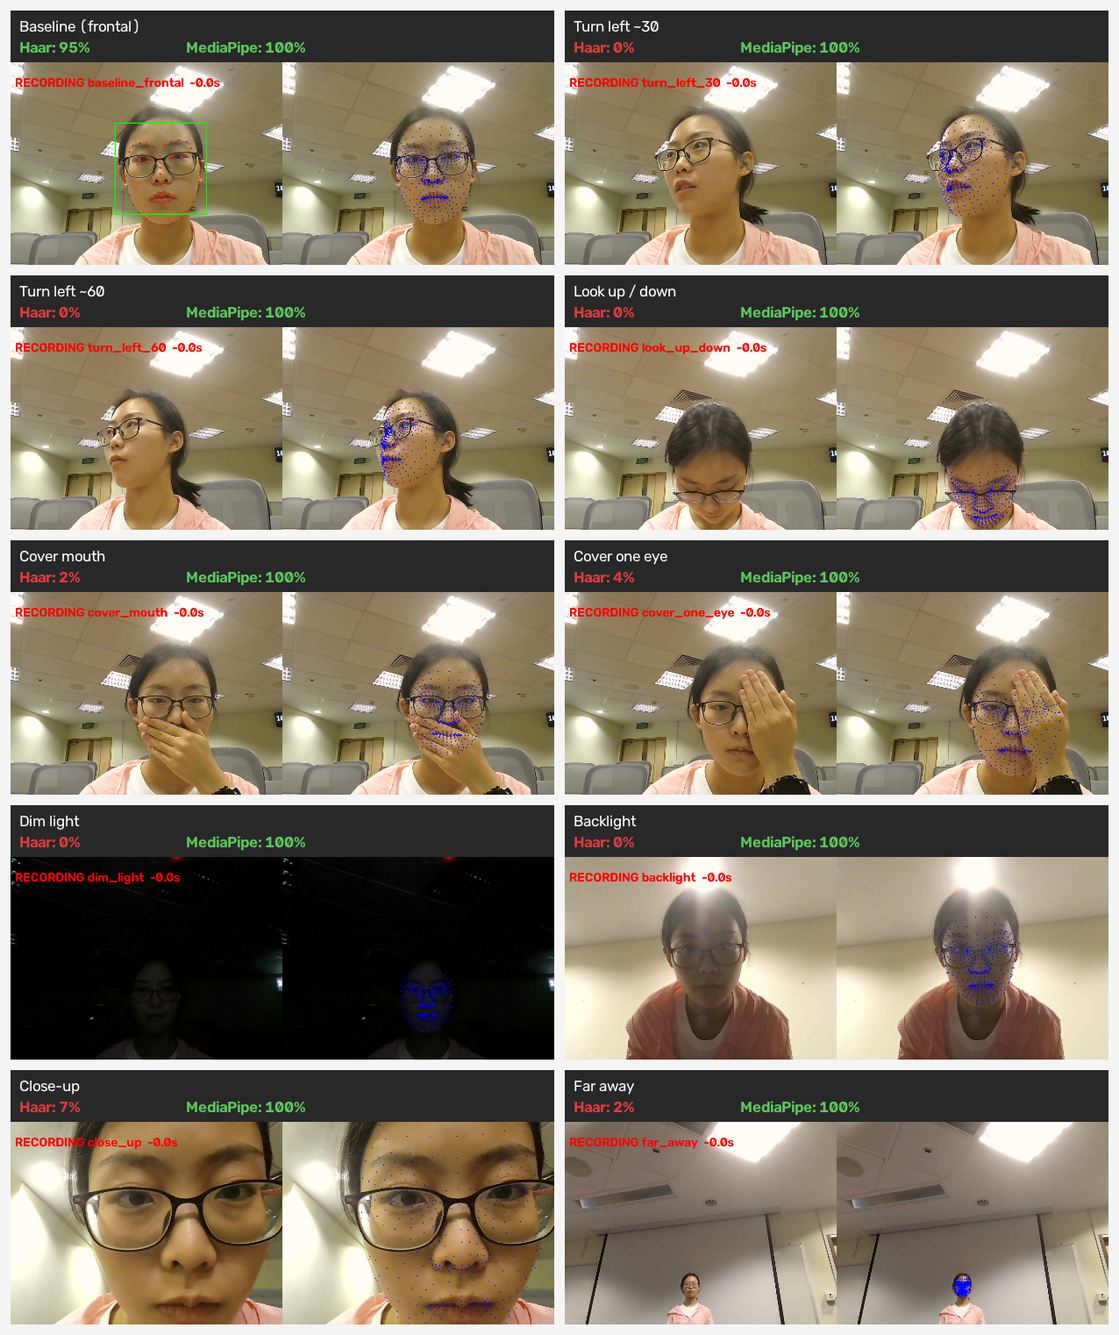
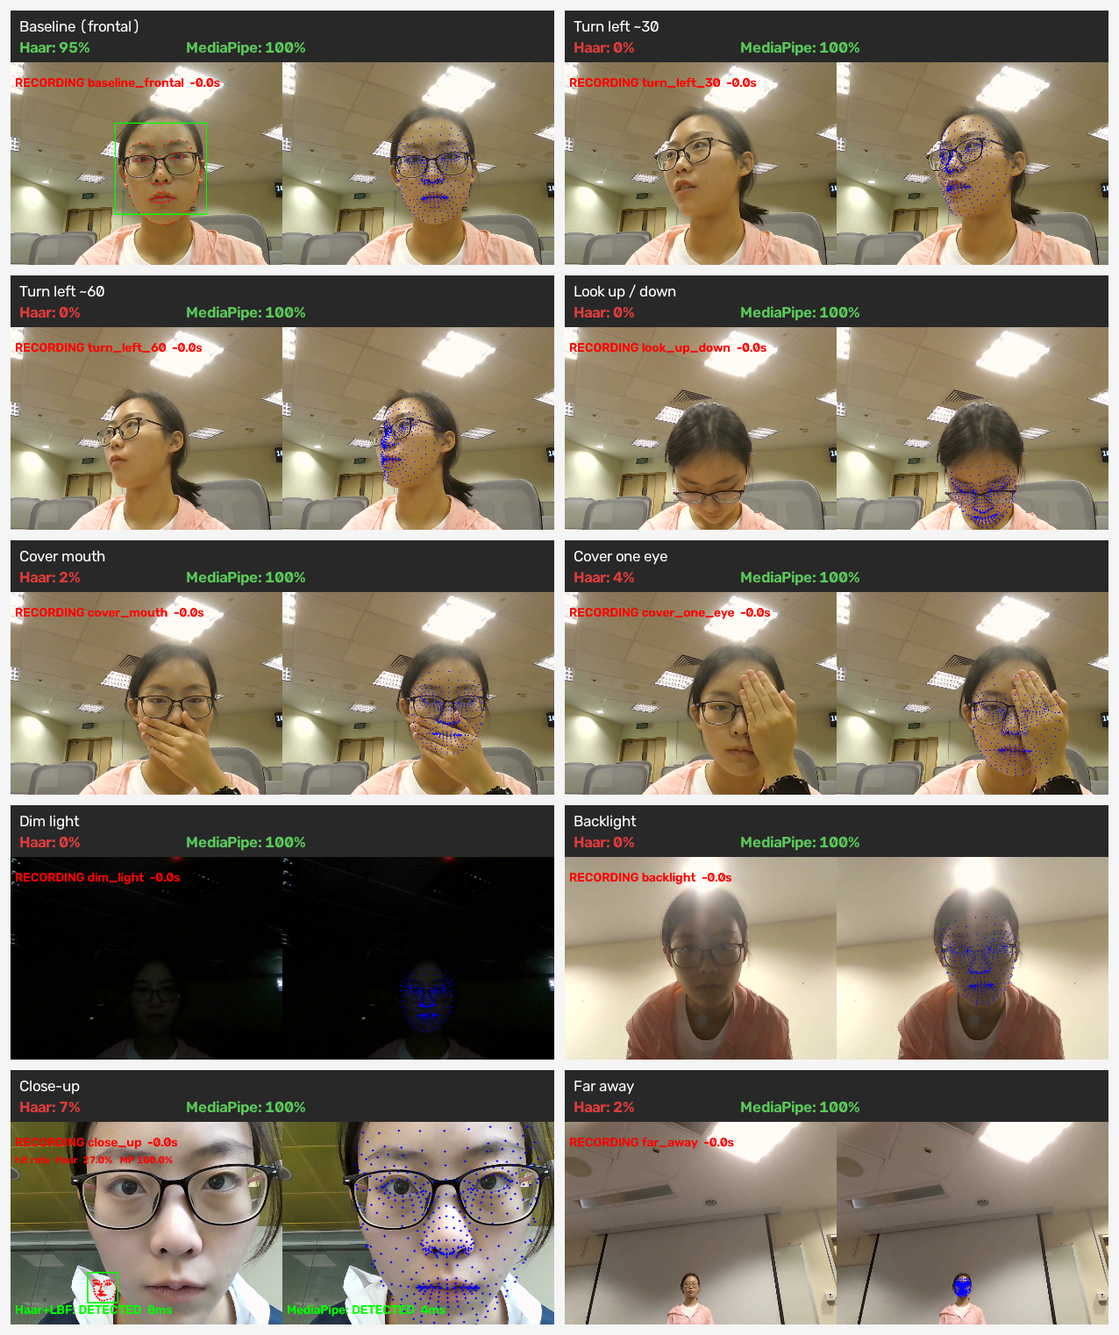
重做beginner close_up

Changed region(s): [[0.0, 0.8338, 0.5196, 1.0]]

diff --git a/beginner/t3.py b/beginner/t3.py
@@ -1,0 +1,153 @@
+import cv2
+import time
+import csv
+import numpy as np
+import mediapipe as mp
+
+# ========== 实验场景列表(可自由增删) ==========
+SCENARIOS = [
+    'close_up',              # 凑近
+]
+CAPTURE_SECONDS = 10         # 每个场景采集时长(秒)
+DOT_RADIUS = 2.2             # MediaPipe 关键点半径(支持小数)
+DOT_R16 = int(round(DOT_RADIUS * 16))   # 转成 1/16 像素定点
+
+# ========== 初始化检测器 ==========
+face_cascade = cv2.CascadeClassifier('haarcascade_frontalface_default.xml')
+facemark = cv2.face.createFacemarkLBF()
+facemark.loadModel('lbfmodel.yaml')
+
+mp_face_mesh = mp.solutions.face_mesh
+face_mesh = mp_face_mesh.FaceMesh(
+    max_num_faces=1, refine_landmarks=False,
+    min_detection_confidence=0.5, min_tracking_confidence=0.5)
+
+# ========== 状态变量 ==========
+scenario_idx = 0             # 当前是第几个场景
+recording = False            # 是否在采集中
+record_start = 0             # 本场景采集开始时刻
+stats = None                 # 本场景的统计数据
+results = []                 # 所有场景的最终结果
+
+def new_stats():
+    return {'haar_hit': 0, 'haar_ms': 0.0,
+            'mp_hit': 0, 'mp_ms': 0.0, 'frames': 0}
+
+cap = cv2.VideoCapture(0)
+cv2.namedWindow('Auto Experiment', cv2.WINDOW_NORMAL)
+cv2.resizeWindow('Auto Experiment', 1280, 480)
+
+while True:
+    ret, frame = cap.read()
+    if not ret:
+        break
+
+    left, right = frame.copy(), frame.copy()
+
+    # ---------- Haar + LBF ----------
+    t0 = time.time()
+    gray = cv2.cvtColor(frame, cv2.COLOR_BGR2GRAY)
+    faces = face_cascade.detectMultiScale(gray, 1.1, 5, minSize=(60, 60))
+    haar_detected = len(faces) > 0
+    if haar_detected:
+        ok, landmarks = facemark.fit(gray, faces)
+        if ok:
+            for lm in landmarks:
+                for (px, py) in lm.reshape(-1, 2):
+                    cv2.circle(left, (int(px), int(py)), 2, (0, 0, 255), -1)
+        for (x, y, w, h) in faces:
+            cv2.rectangle(left, (x, y), (x + w, y + h), (0, 255, 0), 2)
+    haar_ms = (time.time() - t0) * 1000
+
+    # ---------- MediaPipe ----------
+    t0 = time.time()
+    rgb = cv2.cvtColor(frame, cv2.COLOR_BGR2RGB)
+    result = face_mesh.process(rgb)
+    mp_detected = result.multi_face_landmarks is not None
+    if mp_detected:
+        h, w = frame.shape[:2]
+        for face_lms in result.multi_face_landmarks:
+            for p in face_lms.landmark:
+                # shift=4 表示坐标/半径按 1/16 像素定点,这样半径能取到小数
+                cv2.circle(right, (int(p.x * w * 16), int(p.y * h * 16)),
+                           DOT_R16, (255, 0, 0), -1, cv2.LINE_AA, 4)
+    mp_ms = (time.time() - t0) * 1000
+
+    combined = np.hstack([left, right])
+
+    # ---------- 每个 panel 的检测状态(让"失败"也看得见) ----------
+    ph, pw = frame.shape[:2]
+    for x0, name, hit, ms in ((0, 'Haar+LBF', haar_detected, haar_ms),
+                              (pw, 'MediaPipe', mp_detected, mp_ms)):
+        color = (0, 255, 0) if hit else (0, 0, 255)
+        tag = 'DETECTED' if hit else 'NO FACE'
+        cv2.putText(combined, f'{name}: {tag}  {ms:.0f}ms',
+                    (x0 + 10, ph - 25), cv2.FONT_HERSHEY_SIMPLEX, 1.0, color, 2)
+
+    # ---------- 状态机逻辑 ----------
+    if scenario_idx >= len(SCENARIOS):
+        # 全部完成
+        cv2.putText(combined, 'ALL DONE! Results saved. Press q to exit.',
+                    (10, 60), cv2.FONT_HERSHEY_SIMPLEX, 1.0, (0, 255, 255), 2)
+    elif not recording:
+        # 等待开始:显示当前场景名,提示按空格
+        name = SCENARIOS[scenario_idx]
+        cv2.putText(combined, f'[{scenario_idx+1}/{len(SCENARIOS)}] Next: {name}',
+                    (10, 60), cv2.FONT_HERSHEY_SIMPLEX, 1.0, (0, 255, 255), 2)
+        cv2.putText(combined, 'Get ready, press SPACE to record 10s',
+                    (10, 100), cv2.FONT_HERSHEY_SIMPLEX, 0.8, (0, 255, 255), 2)
+    else:
+        # 采集中:累计统计 + 显示倒计时
+        stats['frames'] += 1
+        stats['haar_hit'] += 1 if haar_detected else 0
+        stats['haar_ms'] += haar_ms
+        stats['mp_hit'] += 1 if mp_detected else 0
+        stats['mp_ms'] += mp_ms
+
+        elapsed = time.time() - record_start
+        remain = CAPTURE_SECONDS - elapsed
+        cv2.putText(combined, f'RECORDING {SCENARIOS[scenario_idx]}  {remain:.1f}s',
+                    (10, 60), cv2.FONT_HERSHEY_SIMPLEX, 1.0, (0, 0, 255), 2)
+        # 实时累计命中率,录制过程中就能看出两者差距
+        cv2.putText(combined,
+                    f"hit rate  Haar {stats['haar_hit']/stats['frames']*100:5.1f}%"
+                    f"   MP {stats['mp_hit']/stats['frames']*100:5.1f}%",
+                    (10, 100), cv2.FONT_HERSHEY_SIMPLEX, 0.8, (0, 0, 255), 2)
+
+        if elapsed >= CAPTURE_SECONDS:
+            # 本场景结束:算结果、存截图、进入下一场景
+            f = stats['frames']
+            results.append({
+                'scenario': SCENARIOS[scenario_idx],
+                'frames': f,
+                'haar_hit_rate_%': round(stats['haar_hit'] / f * 100, 1),
+                'mp_hit_rate_%': round(stats['mp_hit'] / f * 100, 1),
+                'haar_avg_ms': round(stats['haar_ms'] / f, 1),
+                'mp_avg_ms': round(stats['mp_ms'] / f, 1),
+            })
+            cv2.imwrite(f'shot_{SCENARIOS[scenario_idx]}.png', combined)
+            print(f'完成: {results[-1]}')
+            scenario_idx += 1
+            recording = False
+
+    cv2.imshow('Auto Experiment', combined)
+
+    key = cv2.waitKey(1) & 0xFF
+    if key == ord('q'):
+        break
+    elif key == 32 and not recording and scenario_idx < len(SCENARIOS):  # 空格=32
+        recording = True
+        record_start = time.time()
+        stats = new_stats()
+
+# ---------- 写出 CSV ----------
+if results:
+    out_csv = 'results_close_up.csv'   # 不覆盖已有的 results.csv
+    with open(out_csv, 'w', newline='', encoding='utf-8') as fp:
+        writer = csv.DictWriter(fp, fieldnames=results[0].keys())
+        writer.writeheader()
+        writer.writerows(results)
+    print(f'\n已保存 {len(results)} 个场景的数据到 {out_csv}')
+
+cap.release()
+cv2.destroyAllWindows()

diff --git a/bonus/bonus level task 2.md b/bonus/bonus level task 2.md
@@ -1,0 +1,234 @@
+---
+title: Bonus Task 2 — Just Dance Scoring and a Motion Game
+tags:
+  - visual-computing
+  - pose-estimation
+  - bonus-level
+---
+
+# Bonus Level — Task 2
+## Just Dance: Scoring the Dance, and a Motion-Controlled Temple Run
+
+> [!abstract] Summary
+> Task 2 reuses the Task 1 `PoseTracker` for **both** panels — reference video (left) and webcam (right). Poses are compared as **12 limb-direction vectors**, which are invariant to where you stand and how big you are; the user's lag behind the reference is tracked with a **monotonic, bounded window**; each frame yields a **0–100 number and a PERFECT/SUPER/GOOD/X tier**, averaged into a final score. The design was hardened after we found a cheat: standing still could score SUPER. The extra game (Q16) is a full-body **Temple Run** driven by shoulder gestures.
+
+> [!info] Rubric coverage
+> **Q13 — "screenshots or a video of your Dance program in action"** → §1.
+> **Q14 — "How did you score? How did you align spatially and temporally? What similarity/distance metrics?"** → §2.
+> **Q15 — "Numeric or textual or both? How does it change over time? Overall score, and how?"** → §3.
+> **Q16 — "Besides dancing, what other actions can you detect and score? How do you render new objects, detect the action, compute the score?"** → §5.
+> §4 is the headline story: how we found and fixed the "stand still and score SUPER" exploit.
+
+---
+
+## 1. The Dance program in action (Q13)
+
+`just_dance.py` — two panels:
+
+- **Left (Reference):** the reference video with its precomputed skeleton overlaid.
+- **Right (You):** live webcam + `PoseTracker` skeleton + a large Just-Dance-style tier word (PERFECT / SUPER / GOOD / X) + the running number.
+
+The reference thread is the **clock**: it advances `t_play`; each webcam frame is scored against whatever `t_play` currently is. Threads only push images to a `queue`; the Tk main loop pops them and updates widgets (thread-safe).
+
+> [!important] The design decision that makes it run on CPU
+> The reference video never changes, so `precompute_reference.py` computes its per-frame keypoints **once, offline**, into `video/ref_<name>.npz` (e.g. `dance_example_7`: 3022 frames, 352 KB). At run time the reference panel is a table lookup and **only the webcam does live inference** — halving the load, which is what lets two panels stay smooth on CPU. The cost: to change reference video you must precompute it first, then set `REF_NAME` in [just_dance.py:39](just_dance.py#L39) (currently `dance_example_7`; caches exist for `dance_example_5/6/7`).
+
+**Screenshots/recording:** the webcam path must be captured live on the presenting machine (rubric requires screenshots or a pre-recorded video — no live demo in Stage 1).
+
+---
+
+## 2. Scoring, alignment, and metric (Q14)
+
+Three sub-questions; each answered directly.
+
+### 2.1 Spatial alignment — limb directions, invariant by construction
+
+You and the reference dancer differ in body size, position, and distance to the camera, so **raw pixel coordinates cannot be compared**. We represent each pose as **12 limb direction vectors** (upper/lower arms, upper/lower legs, the two torso sides, shoulder line, hip line):
+
+```python
+v = xy[b] - xy[a]          # limb a -> b
+units[i] = v / norm(v)     # unit direction: length (body size) dropped, only heading kept
+```
+
+The angle between two unit directions is **naturally invariant to translation and scale** — a small person and a tall person striking the same pose produce identical angles, with no manual registration. (`normalize_pose()` also provides hip-centred, torso-scaled coordinates for visualisation and as a fallback distance metric.)
+
+### 2.2 Similarity metric — angle tolerance through a smoothstep
+
+Per limb, take the angle $\theta$ between the user's direction and the reference's. It scores **full credit at 0° and zero at `ANGLE_TOL = 50°`**, mapped through a **smoothstep** rather than a straight line:
+
+```python
+def _angle_credit(angle):
+    x = np.clip(1.0 - angle / ANGLE_TOL, 0.0, 1.0)
+    return x * x * (3.0 - 2.0 * x)     # flat near the ends, steep in the middle
+```
+
+The frame score is a **weighted average** of limb credits × 100, weighting **arms 1.5, legs 1.2, torso 0.6–0.7** — hands and feet are what an audience judges a dance on.
+
+> [!insight] Why not cosine similarity?
+> The naive `(cos θ + 1)/2` compresses all human poses into the high band: two *random* directions are 90° apart, cosine 0, and still score 50. Wrong moves would read as "decent". The 50°-tolerance smoothstep separates right from wrong far more sharply — see §4 for the quantitative difference.
+
+### 2.3 Temporal alignment — a monotonic, bounded lag window
+
+You are always slightly behind the reference (the brief calls this out explicitly). We first **search a wide window once** to acquire your lag, then every frame search only a narrow `t_play − lag ± 0.13 s` window, clamping `lag` to **≤ 0.6 s** and adapting it slowly:
+
+```python
+if self._lag is None:                       # first: wide window [t-0.5, t+0.2] to lock the lag
+    lo, hi = search(t - acq_back), search(t + acq_fwd)
+else:                                        # after: only +/-0.13s around t - lag
+    c = t_play - self._lag
+    lo, hi = search(c - track_half), search(c + track_half)
+implied  = clip(t_play - ref_t[best_j], 0, max_lag)   # update lag: clamp + slow EMA
+self._lag = clip((1 - lag_ema) * self._lag + lag_ema * implied, 0, max_lag)
+```
+
+The comparison target moves **forward with playback and can never sit still**. Section 4 explains why this replaced a simpler "widest-window maximum" — that older design was the actual hole behind the cheat.
+
+---
+
+## 3. Score over time and overall (Q15)
+
+Four sub-questions; each answered directly.
+
+- **Numeric or textual? Both.** Every frame emits a 0–100 number *and* a tier: **PERFECT ≥ 85, SUPER ≥ 70, GOOD ≥ 50, else X**.
+- **How does it change over time?** Each frame's score is EMA-smoothed (α = 0.5) so the tier word does not flicker, and is shown live. `task2_score_timeline_dance_example_5.png` plots three dancers (good / speed-varying / wrong moves) whose curves land in visibly different bands.
+- **Overall score after the dance? Yes.** The final score is the **mean of every per-frame score**, plus a tier histogram (how many frames were PERFECT/SUPER/GOOD/X). `just_dance.py` pops this up when the reference video ends.
+- **The key rule: unscorable frames count as 0, they are not dropped.** If you leave frame or your body is not fully visible, that frame scores **0 and is included** in the average — otherwise "step out during the hard part" becomes a free pass (see §4).
+
+> [!warning] Numbers need a rerun before the presentation
+> `task2_score_timeline_dance_example_5.png` and any quoted "measured total" were produced by the pre-§4 scoring system and no longer reflect the current (stricter) one. Rerun `python score_timeline.py <name>` and re-measure once. Note the timeline figure uses `dance_example_5` while `just_dance.py` now points at `dance_example_7` — align both to whatever you actually demo.
+
+---
+
+## 4. The story worth telling: finding and killing "stand still → SUPER" (Q14/Q15)
+
+> [!note] Why lead with this
+> It is the clearest "found a problem → diagnosed the root cause → designed a fix → verified it" chain in Task 2, and every step is on-rubric for how scoring and alignment work.
+
+### 4.1 The exploit
+
+Testing found a cheat pose: **stand completely still** and the system still handed out SUPER frequently, with an overall GOOD. Someone not dancing at all should not score well — the scoring had a hole.
+
+### 4.2 Root cause — not one bug, four stacked
+
+| # | Cause | Why it let you cheat |
+|---|---|---|
+| 1 | Temporal alignment took the **max over a wide window** | picking the best of ~21 noisy comparisons per frame is biased high; hold still and the reference eventually *sweeps past* a near-match |
+| 2 | Normalised only over **visible** limbs, **dropped** unscorable frames | show only your torso, get the arms right, no penalty for legs; step out during hard parts and those frames vanish — **the more you hide, the higher you score** |
+| 3 | Tolerance **70° + linear** falloff | an arm 60° off still scored; "just stand up straight" reached 50–60, everything crushed into the high band |
+| 4 | 2D limb directions unstable under **foreshortening** | a limb pointing at the camera projects to near-zero length, so noise dominates its direction |
+
+### 4.3 The four fixes, one per cause
+
+**Fix 1 — monotonic bounded lag window (§2.3) + a liveness gate.** The window now moves forward with playback, so freezing gets you compared against a *moving* reference. On top of that, a liveness gate tracks the smoothed motion rate of both user and reference; when the reference is moving but you are not, it removes up to 90% of the score. Two people **correctly holding the same pose are not penalised** (the reference is not moving either) — only "frozen when you should be moving":
+
+```python
+if self._rmot > MOTION_THRESH:                 # only when the reference actually moves
+    deficit = clip(1 - self._umot / self._rmot, 0, 1)
+    factor  = 1 - LIVENESS_STRENGTH * deficit  # the stiller you are, the harder the cut
+score *= factor
+```
+
+**Fix 2 — coverage penalty + missing frames score 0.** Multiply the score by the fraction of the arm/leg limbs the reference is using that you actually show; unscorable frames record 0 and count toward the average:
+
+```python
+ref_key = ok2 & KEY_LIMBS                       # arm/leg limbs the reference uses this frame
+shown   = LIMB_WEIGHTS[both & KEY_LIMBS].sum()  # the part of those you also show
+score  *= shown / LIMB_WEIGHTS[ref_key].sum()   # hide your legs -> scaled down
+```
+
+**Fix 3 — tolerance 70° → 50° + smoothstep** (§2.2): wrong limbs lose credit faster and the tiers mean something again.
+
+**Fix 4 — down-weight foreshortened limbs:** a limb whose projected length is under 15% of the torso is weighted down — "if the direction is unreliable, trust it less".
+
+### 4.4 Verification, no webcam needed
+
+`validate_scoring.py` builds fake users with known ground truth from the reference sequence. All three self-checks **PASS**:
+
+| Test | Setup | Result | Verdict |
+|---|---|---|---|
+| Spatial invariance | same pose, 1.8× body size + translation, no noise | similarity **100**, normalised diff **0.0000** | ✅ position/size-independent |
+| Temporal alignment | matched user, 5-frame (167 ms) lag injected | recovered lag median **167 ms** | ✅ exact |
+| Matched scoring | 1.4× size + translation + noise + lag | total **98.1 / PERFECT** | ✅ high when it should be |
+| Discrimination | reference played **in reverse** (wrong moves) | total **56.3 / GOOD**, 40+ points lower | ✅ clearly lower |
+
+**Anti-cheat test, before vs after the fixes:**
+
+| Scenario | Before | After |
+|---|---|---|
+| **Stand still** (the strongest cheat — freezing on a pose from the video) | **68.8 GOOD** (30 PERFECT + 166 SUPER) | **50.4 GOOD**, 208 of 389 frames judged **X** |
+| Actually dancing | 97 | **98.2 PERFECT** |
+| Only upper body, legs hidden | ~98 | **67 GOOD** |
+
+> [!success] Honest reading of the result
+> ① Our "stand still" is the *adversarial worst case* — frozen on a pose that literally appears in the video; a real person standing with arms down would differ more and score lower still. After the fix it is only GOOD overall and mostly X per frame, no longer SUPER. ② Reverse playback still scores 56, not 0, because a continuous dance played backwards still passes through many similar poses — it is not random flailing. The 98-vs-56 gap is what proves the discrimination is real. ③ We stopped tolerance at **50°, not tighter**, deliberately: real webcam noise is larger, and over-tightening to win an offline test would punish genuine dancers.
+
+---
+
+## 5. Extra action: motion-controlled Temple Run (Q16)
+
+`temple_run.py` — a standalone OpenCV window controlled by full-body motion. Preview: `task2_temple_run_preview.png`.
+
+### 5.1 What it detects, and the features (Q16: detection)
+
+Three gestures, all built on the **most reliable keypoints — the shoulders**, so it plays even when only the upper body is in frame (a lesson from close-range webcam framing):
+
+| Action | Feature | Effect |
+|---|---|---|
+| Lean left / right | shoulder-centre offset `dx = (sx − base_x)/shoulder_width`, past ±0.45 | switch between three lanes |
+| Jump | shoulders rise `up > 0.34` **or** rise-speed `vy > 1.1 shoulder-widths/s` | clear a low hurdle |
+| Duck | shoulders drop `dn > 0.34` **or** drop-speed | pass under an overhang |
+
+Every threshold is **normalised in shoulder-widths**, so it is immune to how far you stand from the camera. At startup a ~1 s "stand still" calibration fixes the baseline (median shoulder-centre + shoulder-width). No training set is needed — the gestures are geometric rules, not a learned classifier.
+
+> [!insight] Cutting jump latency (a real playtest fix)
+> A jump is instantaneous; "position crossed a threshold" alone reacts half a beat late. Three changes: (1) the game's `PoseTracker` runs with **smoothing off** (`smooth_alpha=1.0`) — responsiveness over smoothness; (2) a **velocity trigger** fires the instant shoulder rise-speed exceeds threshold, catching the takeoff rather than waiting for the apex; (3) the action is **latched for 0.35 s** so a brief peak reliably covers the frame where the obstacle is resolved.
+
+### 5.2 How new objects are rendered (Q16: rendering)
+
+**First-person perspective corridor + real sprite art + a scrolling texture floor.** The world is modelled in depth `z` (0 at the player, larger = farther); every object is projected through a vanishing point: `t = z/(z+K)`, near-large-far-small `scale = 1 − t`, lanes converging to the vanishing point.
+
+- **Background (`temple_bg.py`):** the runner's motion comes from a scrolling *floor*, not a background video. Seamless stone/sand textures are **generated procedurally**, sampled in perspective with `cv2.remap`; the sampled depth offset advances each frame with speed, and `BORDER_WRAP` tiles it seamlessly → tiles rush toward the player. Above the horizon is a near-static backdrop (a real photo if `assets/backdrop.*` exists, else a gradient). Optimised to **~21 ms/frame** by computing only the strip below the horizon.
+- **Objects and character:** transparent PNG sprites under `assets/`, composited with alpha + depth scaling + fog by `blit()` — the player in three states (run/jump/slide, all rear view), stone pillars (barrier), hurdles, overhangs, coins, hearts (life HUD), explosion (on hit).
+- **Graceful degradation:** any missing sprite or texture falls back to built-in drawing; nothing crashes.
+
+The alpha compositing is the same technique as the Expert-task sticker rendering.
+
+### 5.3 How the score is computed (Q16: scoring)
+
+Score = **survival distance / 10 + coins × 10 + obstacles avoided × 5**; a hit costs one of 3 lives, and zero lives ends the run. Obstacle speed ramps up slowly over time.
+
+A full **state machine** wraps it (a playtest fix — the original started instantly with no buffer):
+`menu (SPACE) → calibrate (stand still) → playing (P/SPACE pause) → results`.
+The results screen breaks down coins × 10, obstacles × 5, distance / 10, and TOTAL; SPACE replays, Q quits.
+
+### 5.4 Verification, no webcam needed
+
+Game logic and gesture detection were tested on synthetic input, all passing: collision/scoring for wall (switch lane), JUMP hurdle, DUCK overhang, and coins; Game Over after three hits; and correct lane/jump/duck triggering after calibration.
+
+---
+
+## Appendix. Files and reproduction
+
+```text
+bonus/
+├── pose_pipeline.py          # Task 1 tracker (reused directly)
+├── precompute_reference.py   # reference keypoints -> video/ref_<name>.npz
+├── pose_score.py             # alignment + similarity + feedback (Q14/Q15)
+├── just_dance.py             # two-panel GUI, live scoring (Q13)
+├── validate_scoring.py       # offline scoring self-checks (no webcam)
+├── score_timeline.py         # score-vs-time figure (Q15)
+├── temple_run.py             # motion-controlled Temple Run (Q16)
+└── temple_bg.py              # procedural perspective floor
+```
+
+```bash
+conda activate vcwork                       # torch 2.7.1 CPU, opencv, ultralytics
+
+cd bonus
+python precompute_reference.py dance_example_7   # once per reference video
+python just_dance.py                             # two-panel Just Dance (set REF_NAME first)
+python validate_scoring.py                       # offline scoring checks
+python temple_run.py                             # motion game (Q quit, R recalibrate)
+```
+
+Shipped scoring parameters: `ANGLE_TOL=50°`, arm/leg/torso weights `1.5 / 1.2 / 0.6–0.7`, score EMA `α=0.5`, `max_lag=0.6 s`, track window `±0.13 s`, `LIVENESS_STRENGTH=0.9`, foreshorten cutoff `0.15·torso`. Temple Run: `LANE_TH=0.45`, `MOVE_TH=0.34`, `VEL_TH=1.1` shoulder-widths/s.

diff --git a/README.md b/README.md
@@ -11,7 +11,7 @@ Real-time facial expression effects and Just Dance pose analysis project for SWS
 | Beginner | `beginner/` | Haar + LBF 人脸检测/关键点，与 MediaPipe 的 10 场景鲁棒性对比 | [FINDINGS.md](beginner/FINDINGS.md)（第 1–3 题） |
 | Expert | `expert/` | FER-2013 表情分类（LBF 68 点 + RBF-SVM）与实时特效 V2 | [PRESENTATION_NOTES.md](expert/PRESENTATION_NOTES.md)（第 4–10 题） |
 | Bonus (Task 1) | `bonus/` | YOLOv8-pose 姿态流水线：主舞者选择、时序关联、EMA 平滑 | [FINDINGS.md](bonus/FINDINGS.md)（第 11–12 题）；英文报告版 [bonus level task 1.md](bonus/bonus%20level%20task%201.md) |
-| Bonus (Task 2) | `bonus/` | Just Dance 评分系统 + 神庙逃亡体感游戏 | [TASK2_FINDINGS.md](bonus/TASK2_FINDINGS.md)（第 13–16 题） |
+| Bonus (Task 2) | `bonus/` | Just Dance 评分系统 + 神庙逃亡体感游戏 | [TASK2_FINDINGS.md](bonus/TASK2_FINDINGS.md)（第 13–16 题）；英文报告版 [bonus level task 2.md](bonus/bonus%20level%20task%202.md) |
 
 **运行环境**：conda 环境 `vcwork`（torch 2.7.1 CPU 版、opencv、mediapipe、scikit-learn、ultralytics）。系统 Python 没有 cv2，脚本请在 `vcwork` 下跑。
 
